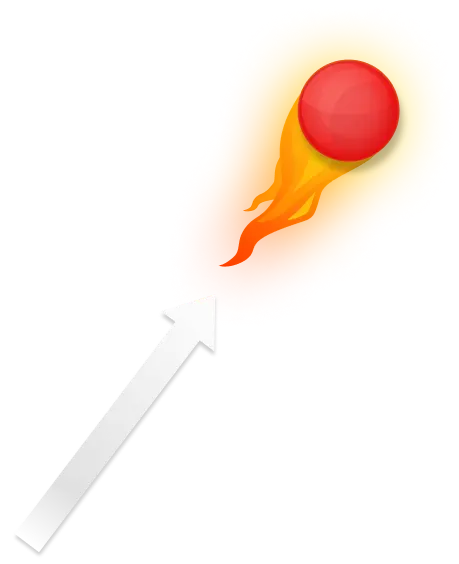
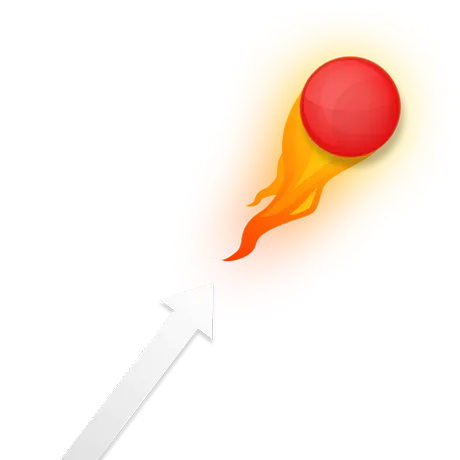
fix ball image

diff --git a/src/components/home/GameCta.tsx b/src/components/home/GameCta.tsx
@@ -35,7 +35,7 @@ export default function GameCta() {
         </Link>
         <img
           src={ArrowBall}
-          className="absolute -bottom-[120px] lg:-right-20 sm:right-[20%] -right-[10%] w-[320px] lg:w-[461px] lg:h-[564px] pointer-events-none"
+          className="absolute -bottom-[50px] lg:-right-20 sm:right-[20%] -right-[10%] w-[320px] h-[320px] lg:w-[460px] lg:h-[460px] pointer-events-none"
           alt=""
         />
       </div>
